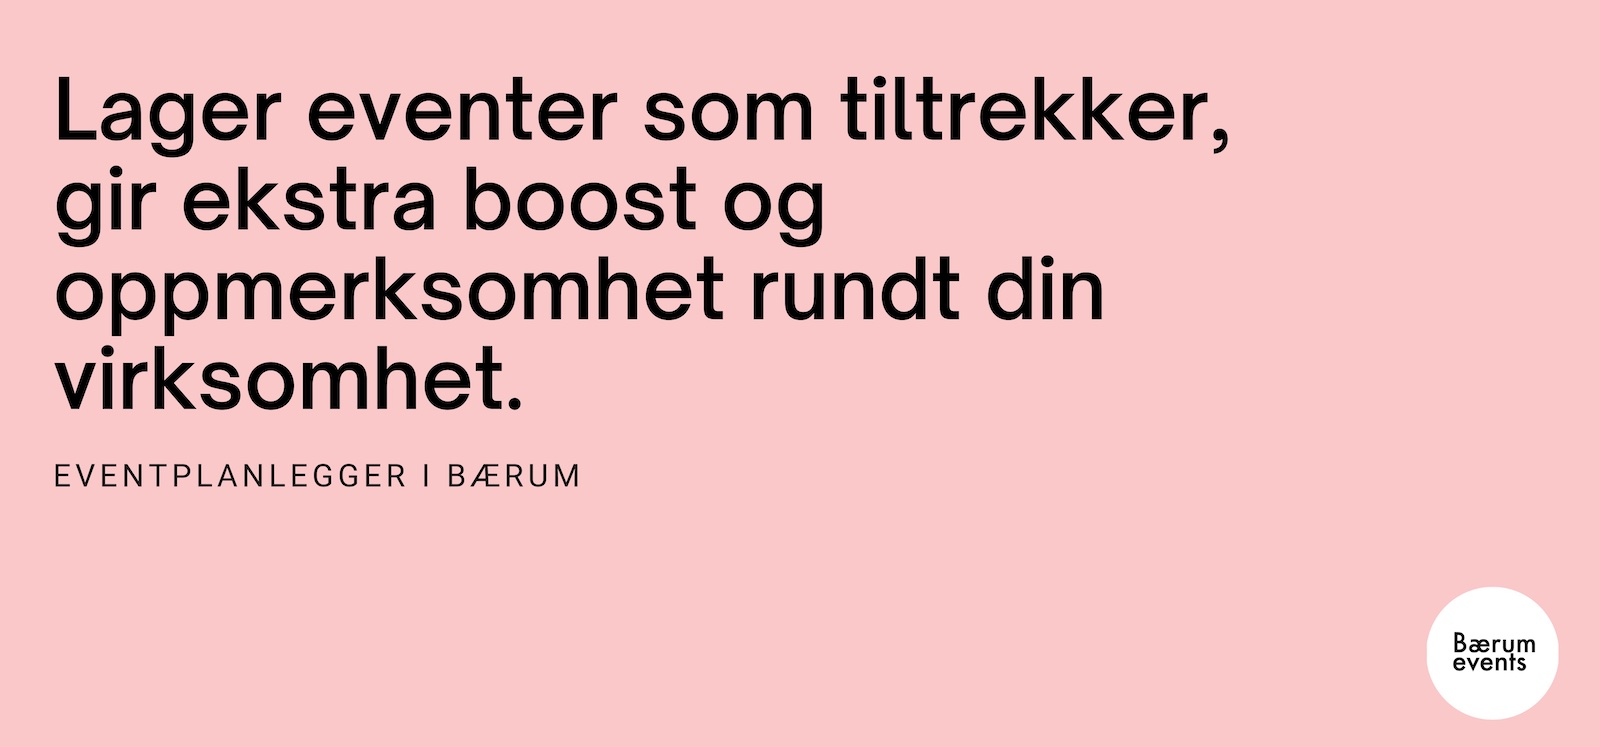
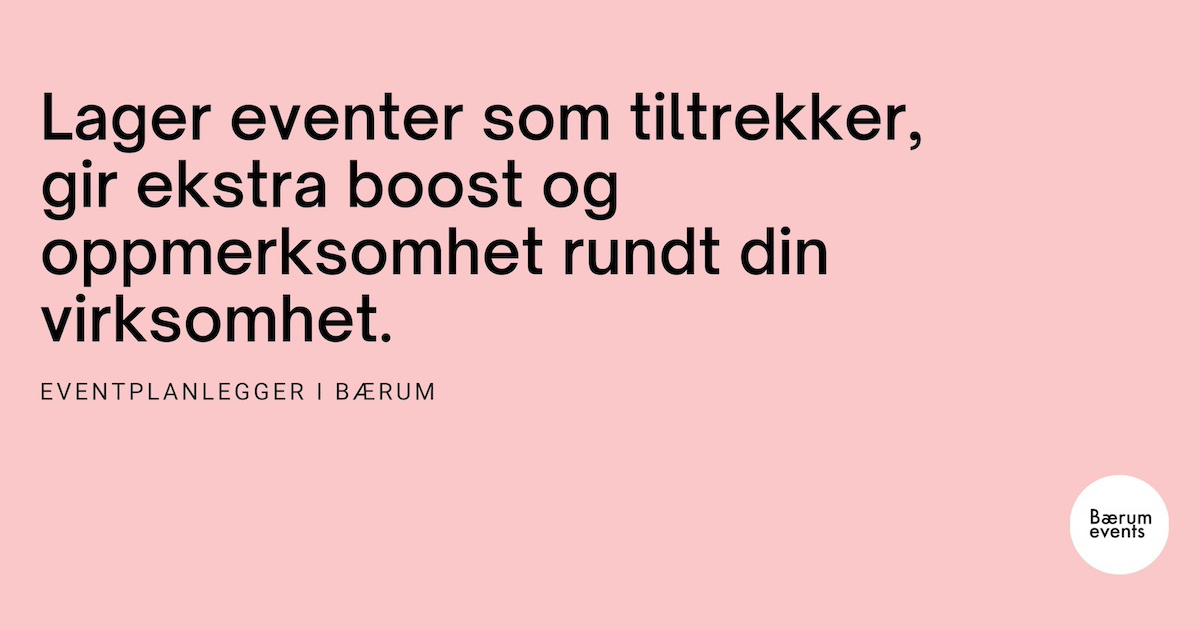
meta title longer

Changed region(s): [[0.0308, 0.0905, 0.7708, 0.5429], [0.0308, 0.6032, 0.37, 0.6635], [0.8942, 0.754, 0.9867, 0.9651]]

diff --git a/index.html b/index.html
@@ -12,7 +12,7 @@
       hreflang="x-default"
     />
 
-    <title>Bærum events</title>
+    <title>Bærum events - Eventer og inspo til din virksomhet</title>
 
     <!-- Google Fonts -->
     <link rel="preconnect" href="https://fonts.googleapis.com" />
@@ -33,7 +33,7 @@
     />
 
     <!-- Open Graph -->
-    <meta property="og:title" content="Bærum events" />
+    <meta property="og:title" content="Bærum events - Eventer og inspo til din virksomhet" />
     <meta
       property="og:description"
       content="Lager eventer som tiltrekker, gir ekstra boost og oppmerksomhet"
@@ -43,13 +43,13 @@
       content="https://www.baerumevents.no/img/baerum-events-image.jpg"
     />
     <meta property="og:image:alt" content="Bærum events" />
-    <meta property="og:image:width" content="1600" />
-    <meta property="og:image:height" content="747" />
+    <meta property="og:image:width" content="1200" />
+    <meta property="og:image:height" content="630" />
     <meta property="og:url" content="https://www.baerumevents.no/" />
 
     <!-- Twitter Cards -->
     <meta name="twitter:card" content="summary_large_image" />
-    <meta name="twitter:title" content="Bærum events" />
+    <meta name="twitter:title" content="Bærum events - Eventer og inspo til din virksomhet" />
     <meta name="twitter:description" content="Lager eventer som tiltrekker, gir ekstra boost og oppmerksomhet." />
     <meta
       name="twitter:image"
